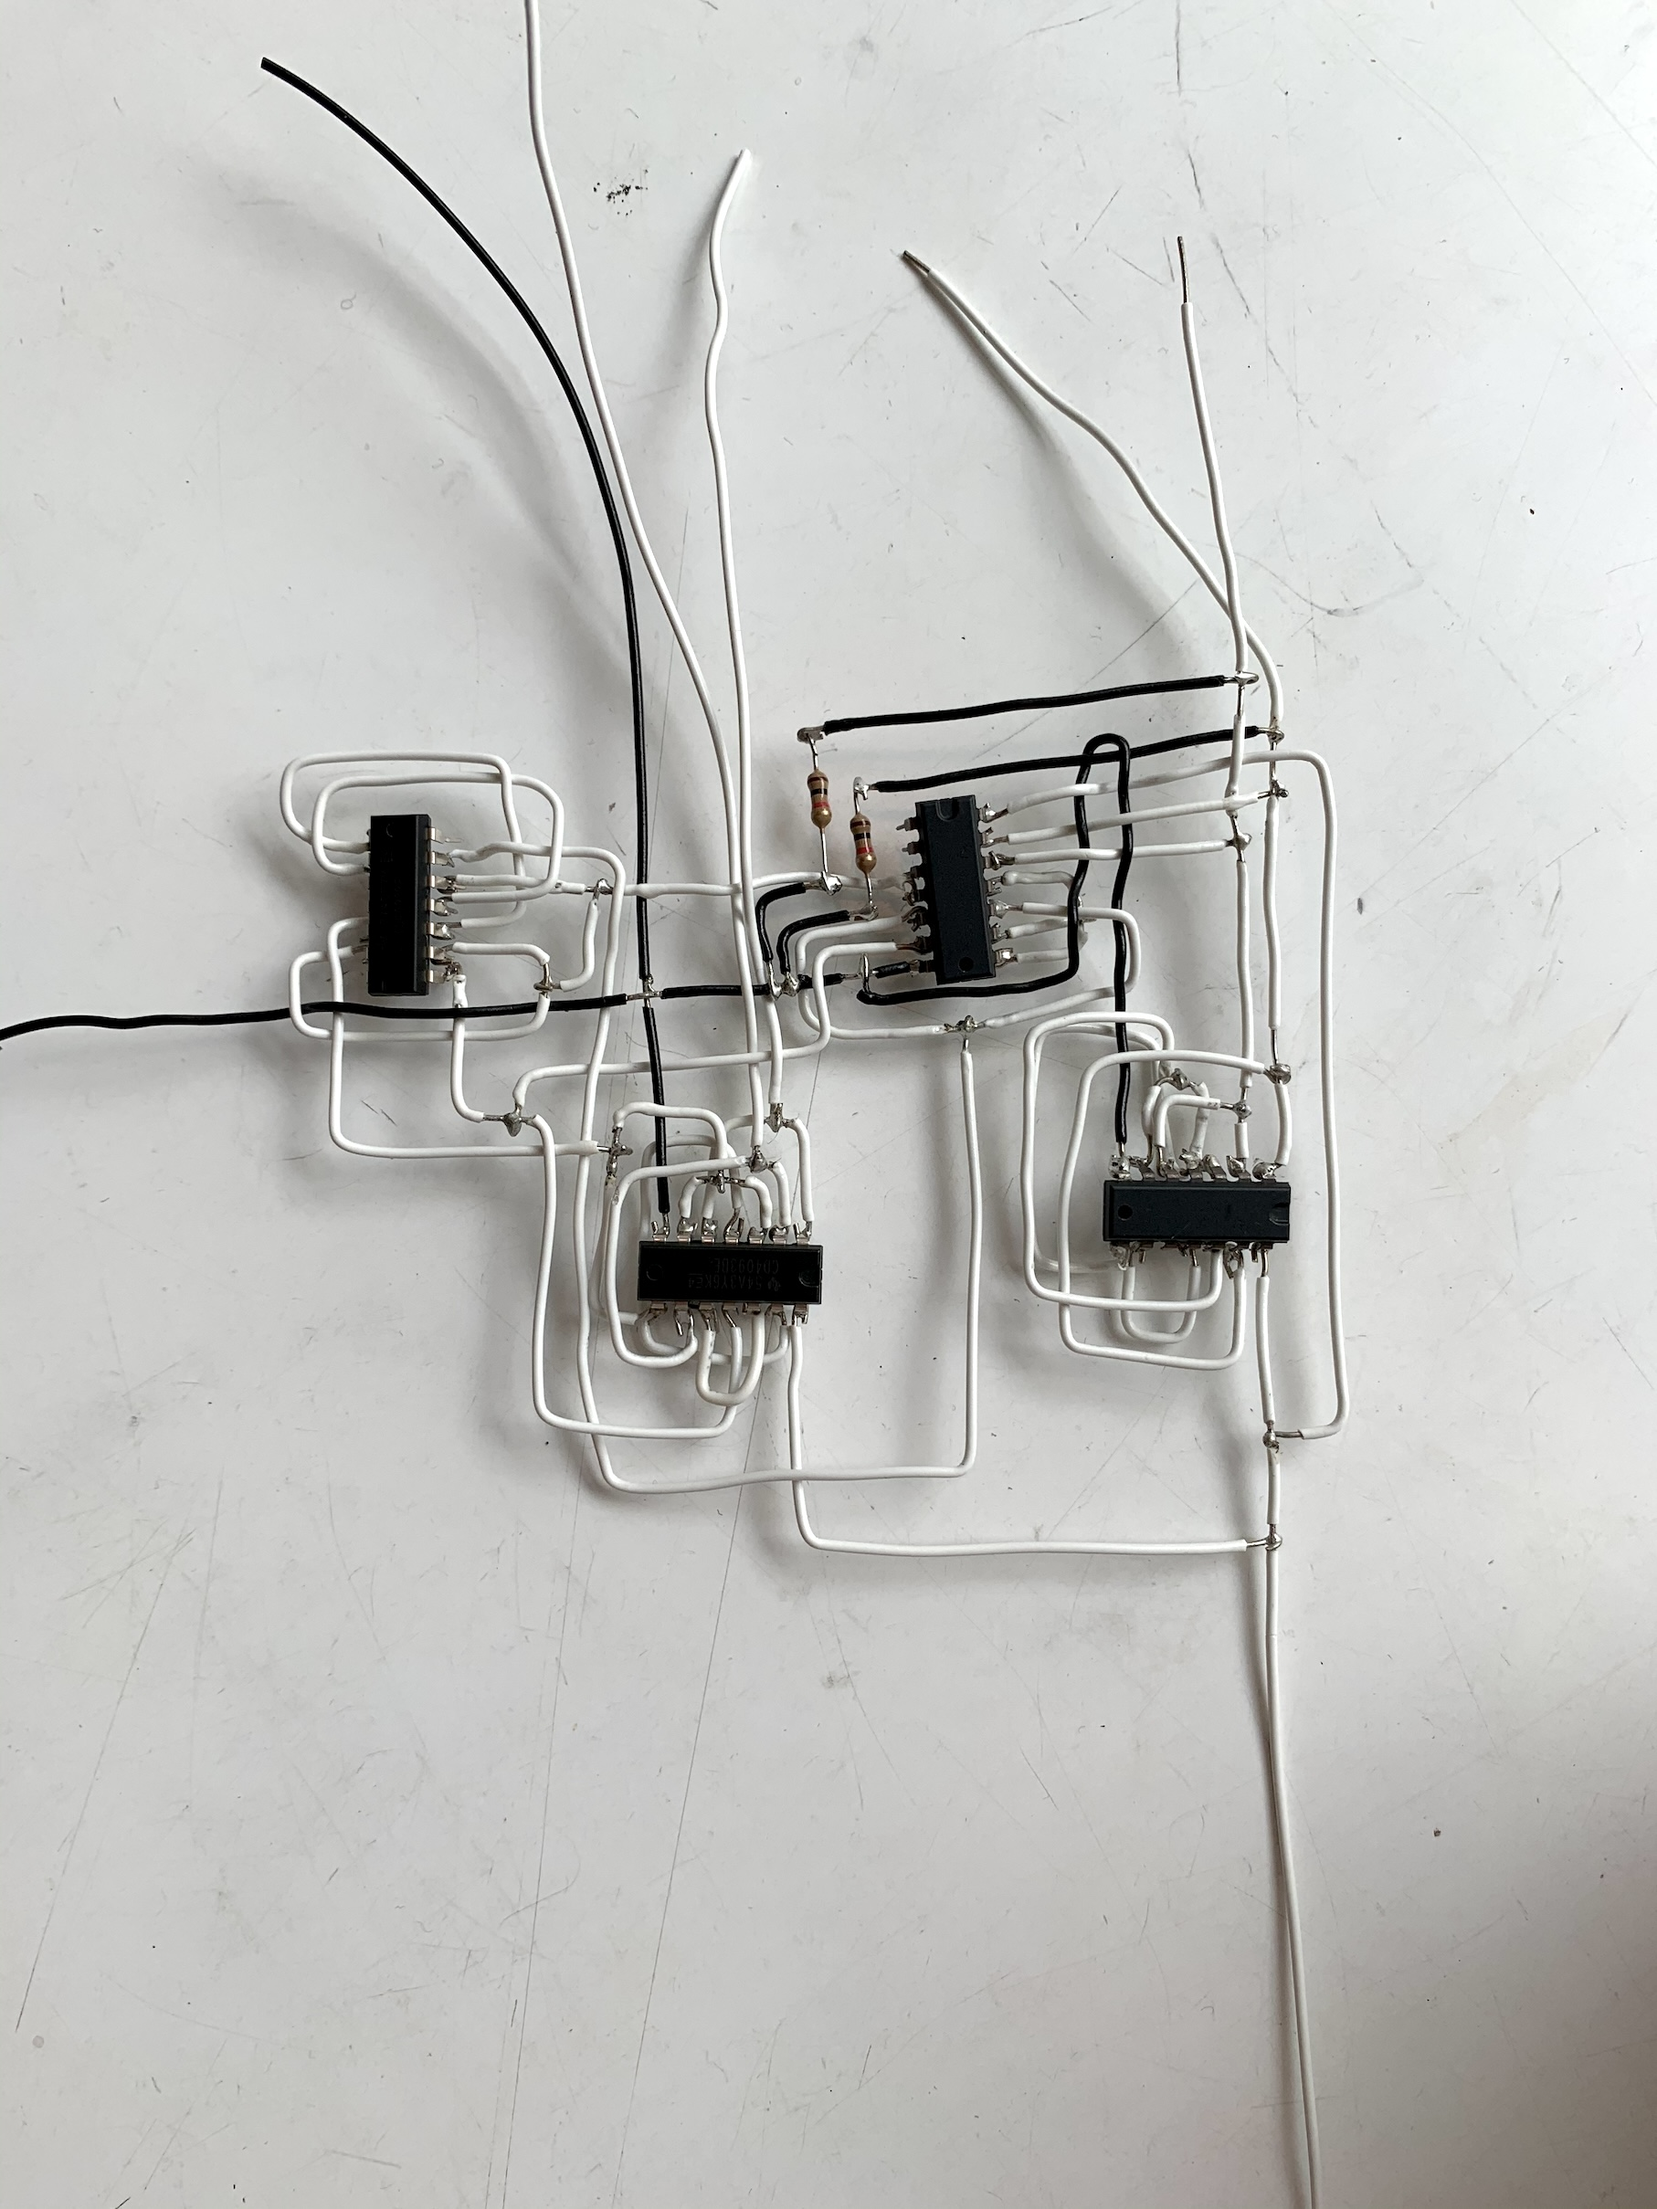
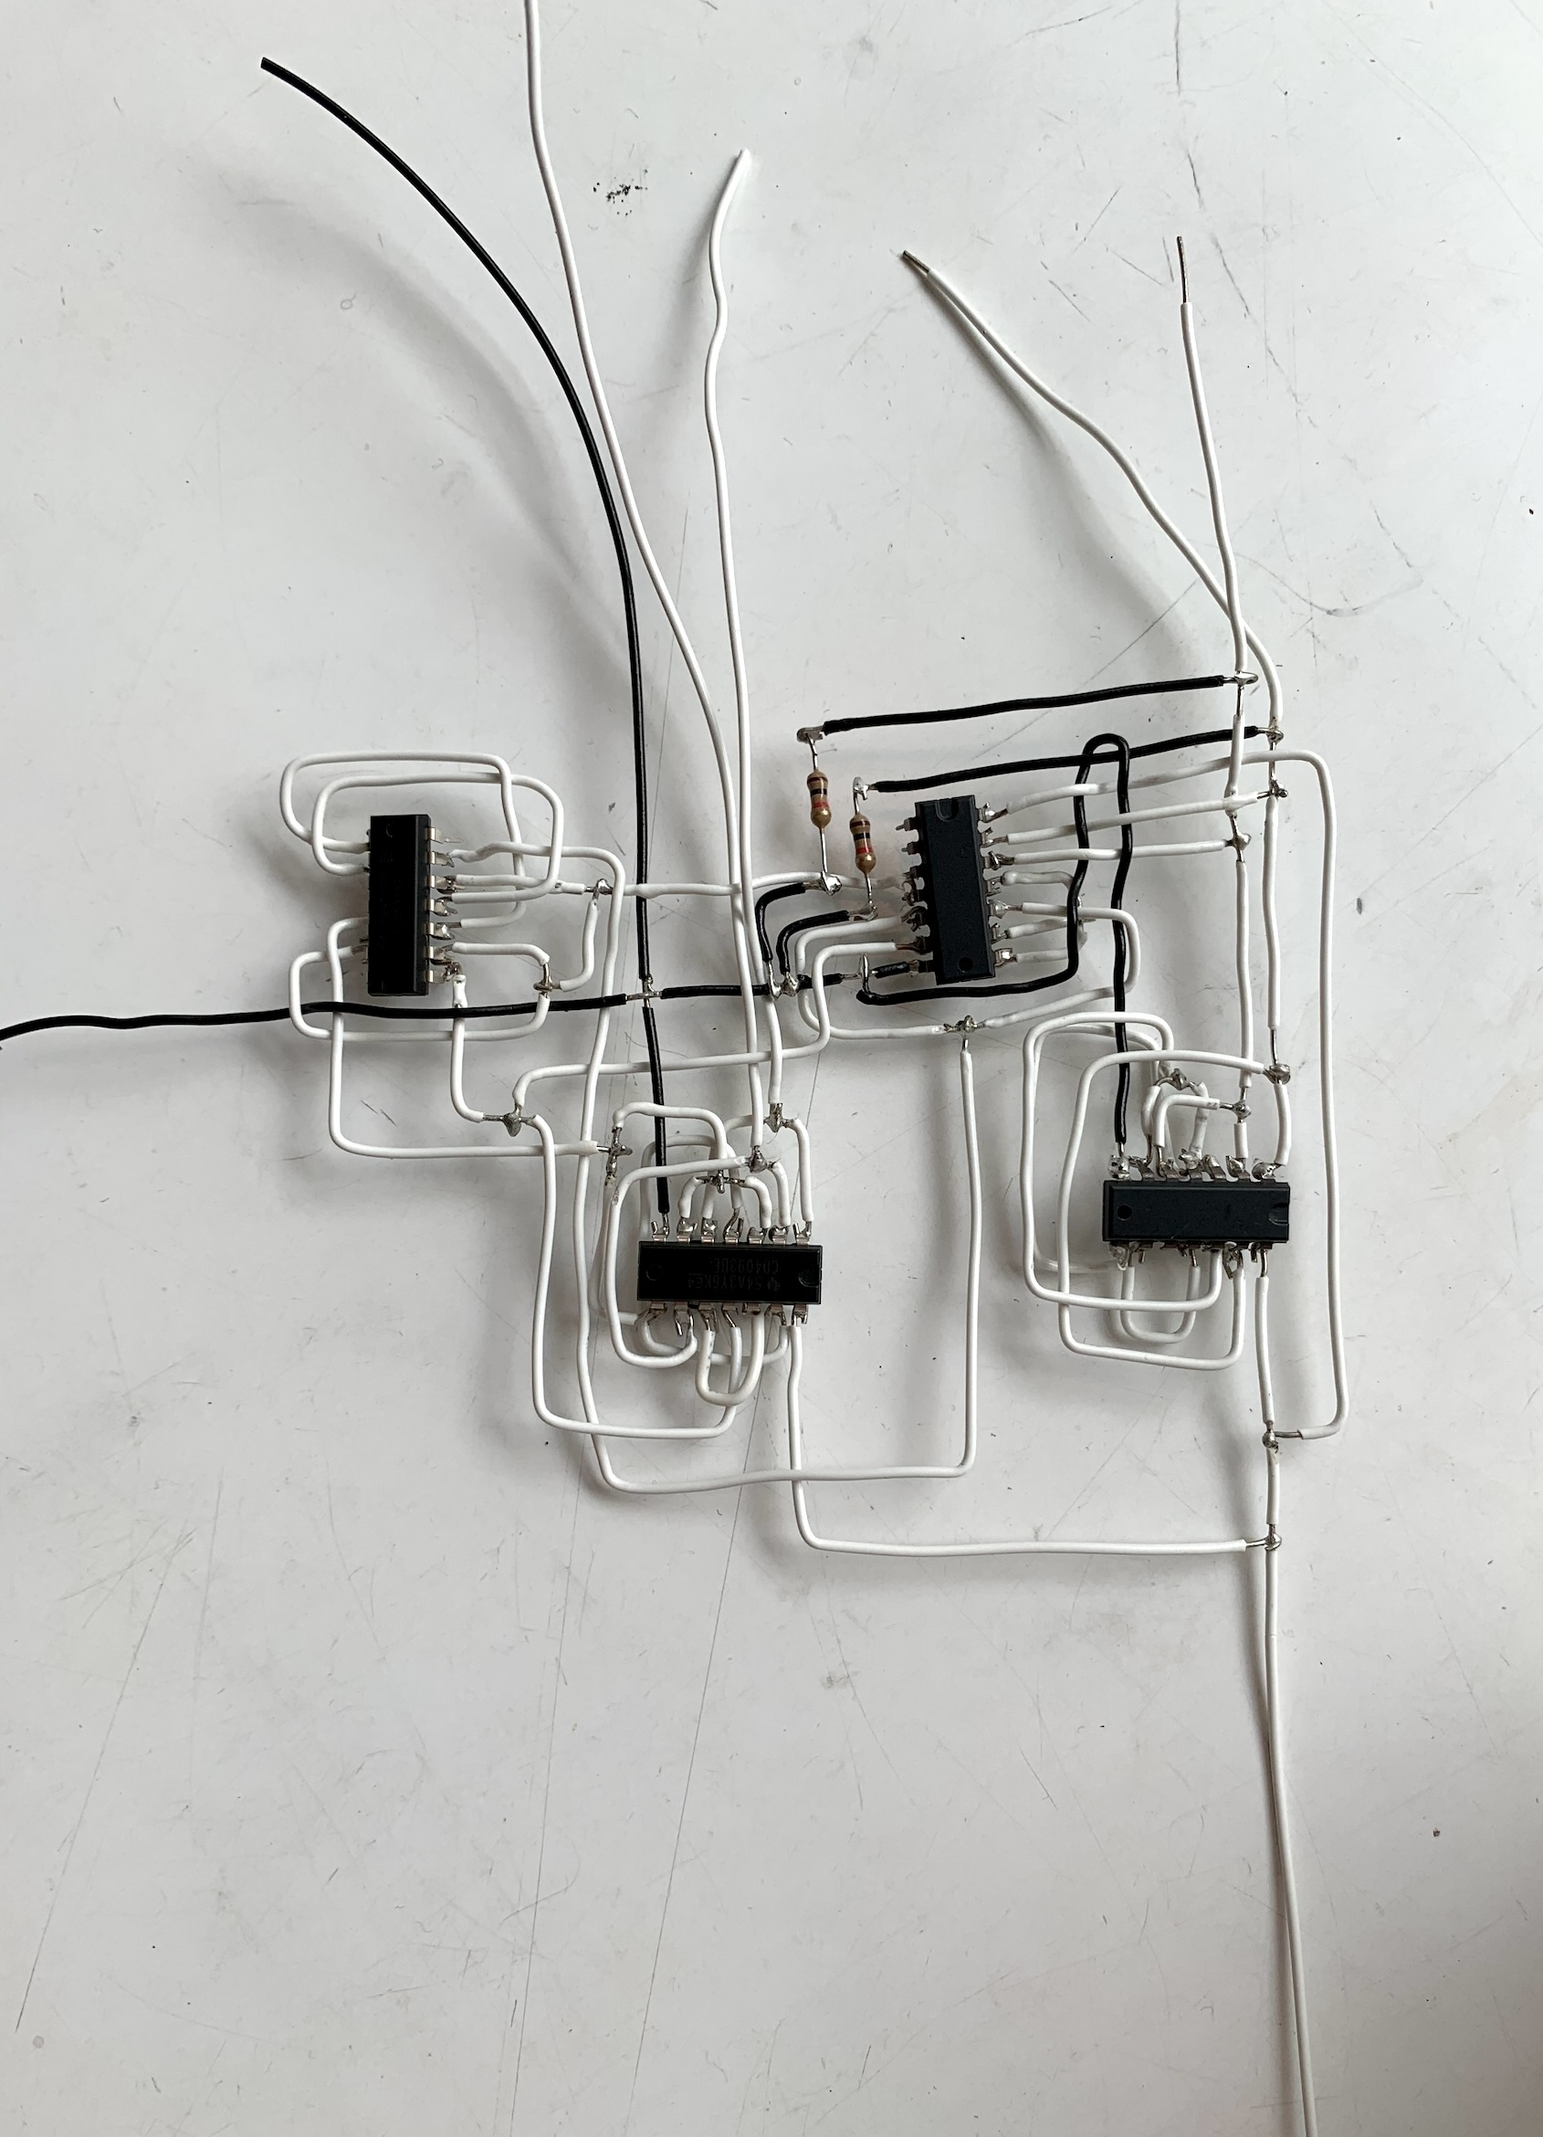
resizing photos

Changed region(s): [[0.0, 0.0, 1.0, 1.0]]

diff --git a/three-bit-adder.html b/three-bit-adder.html
@@ -210,8 +210,11 @@
                     class="mono">110<sub>2</sub></span> (binary).
             </p>
         </div>
+        <div class="two-column">
+            <img loading="lazy" src="./three-bit-adder/IMG_4469.jpg" alt="in progress wiring of full adder" />
+            <img loading="lazy" src="./three-bit-adder/IMG_4521.jpg" alt="in progress wiring of full adder" />
+        </div>
         <img loading="lazy" src="./three-bit-adder/IMG_4514.jpg" alt="full adder" />
-        <img style="margin: 3rem auto" loading="lazy" src="./three-bit-adder/IMG_4469.jpg" alt="full adder" />
         <video src="./three-bit-adder/1-mute.mp4" autoplay controls muted loop class="rotate-1"></video>
         <img loading="lazy" src="./three-bit-adder/IMG_5026.jpg" alt="full adder" />
         <video src="./three-bit-adder/2-mute.mp4" autoplay controls muted loop></video>
